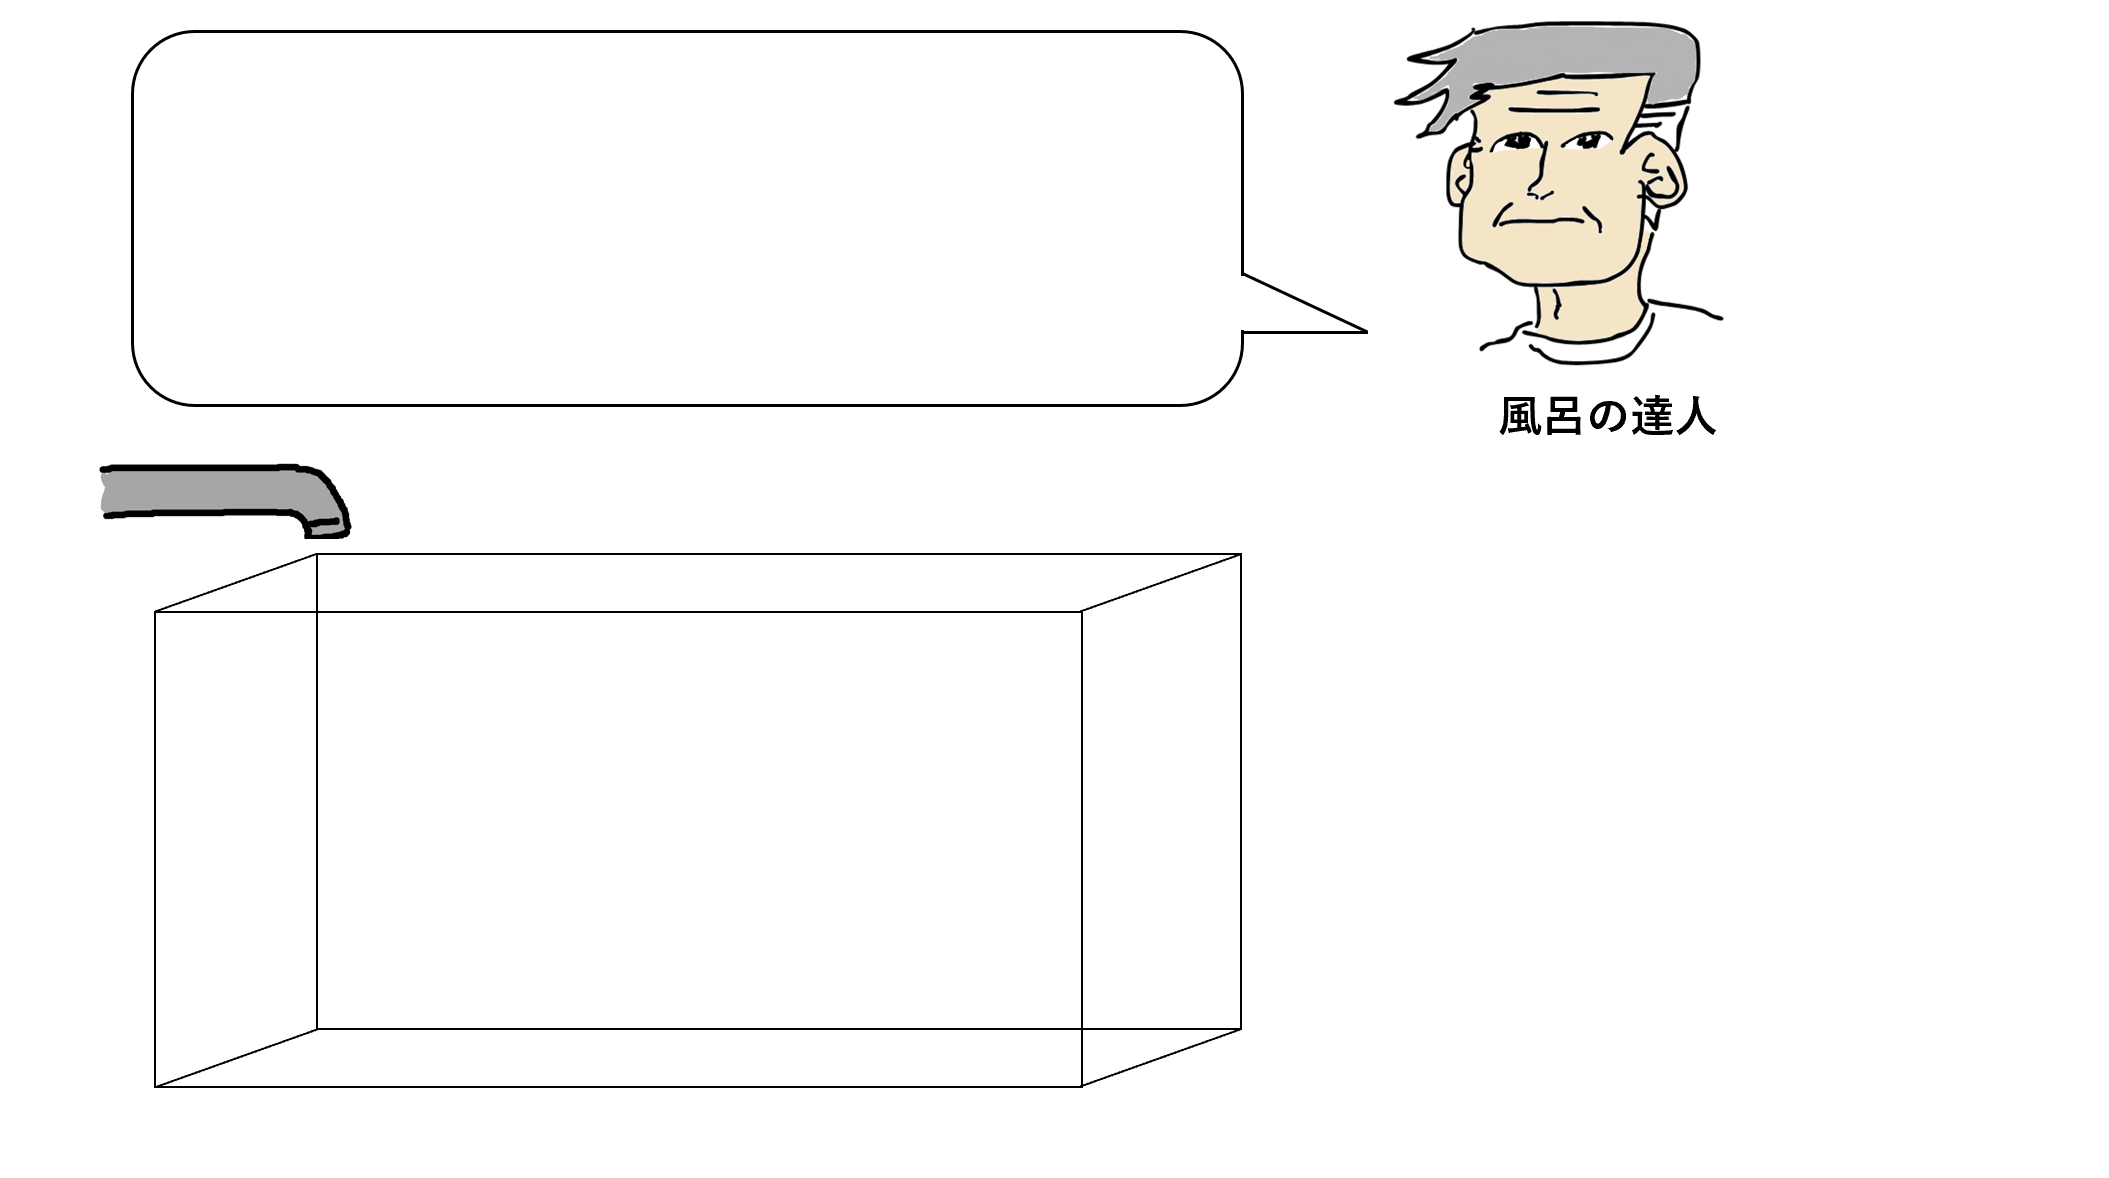
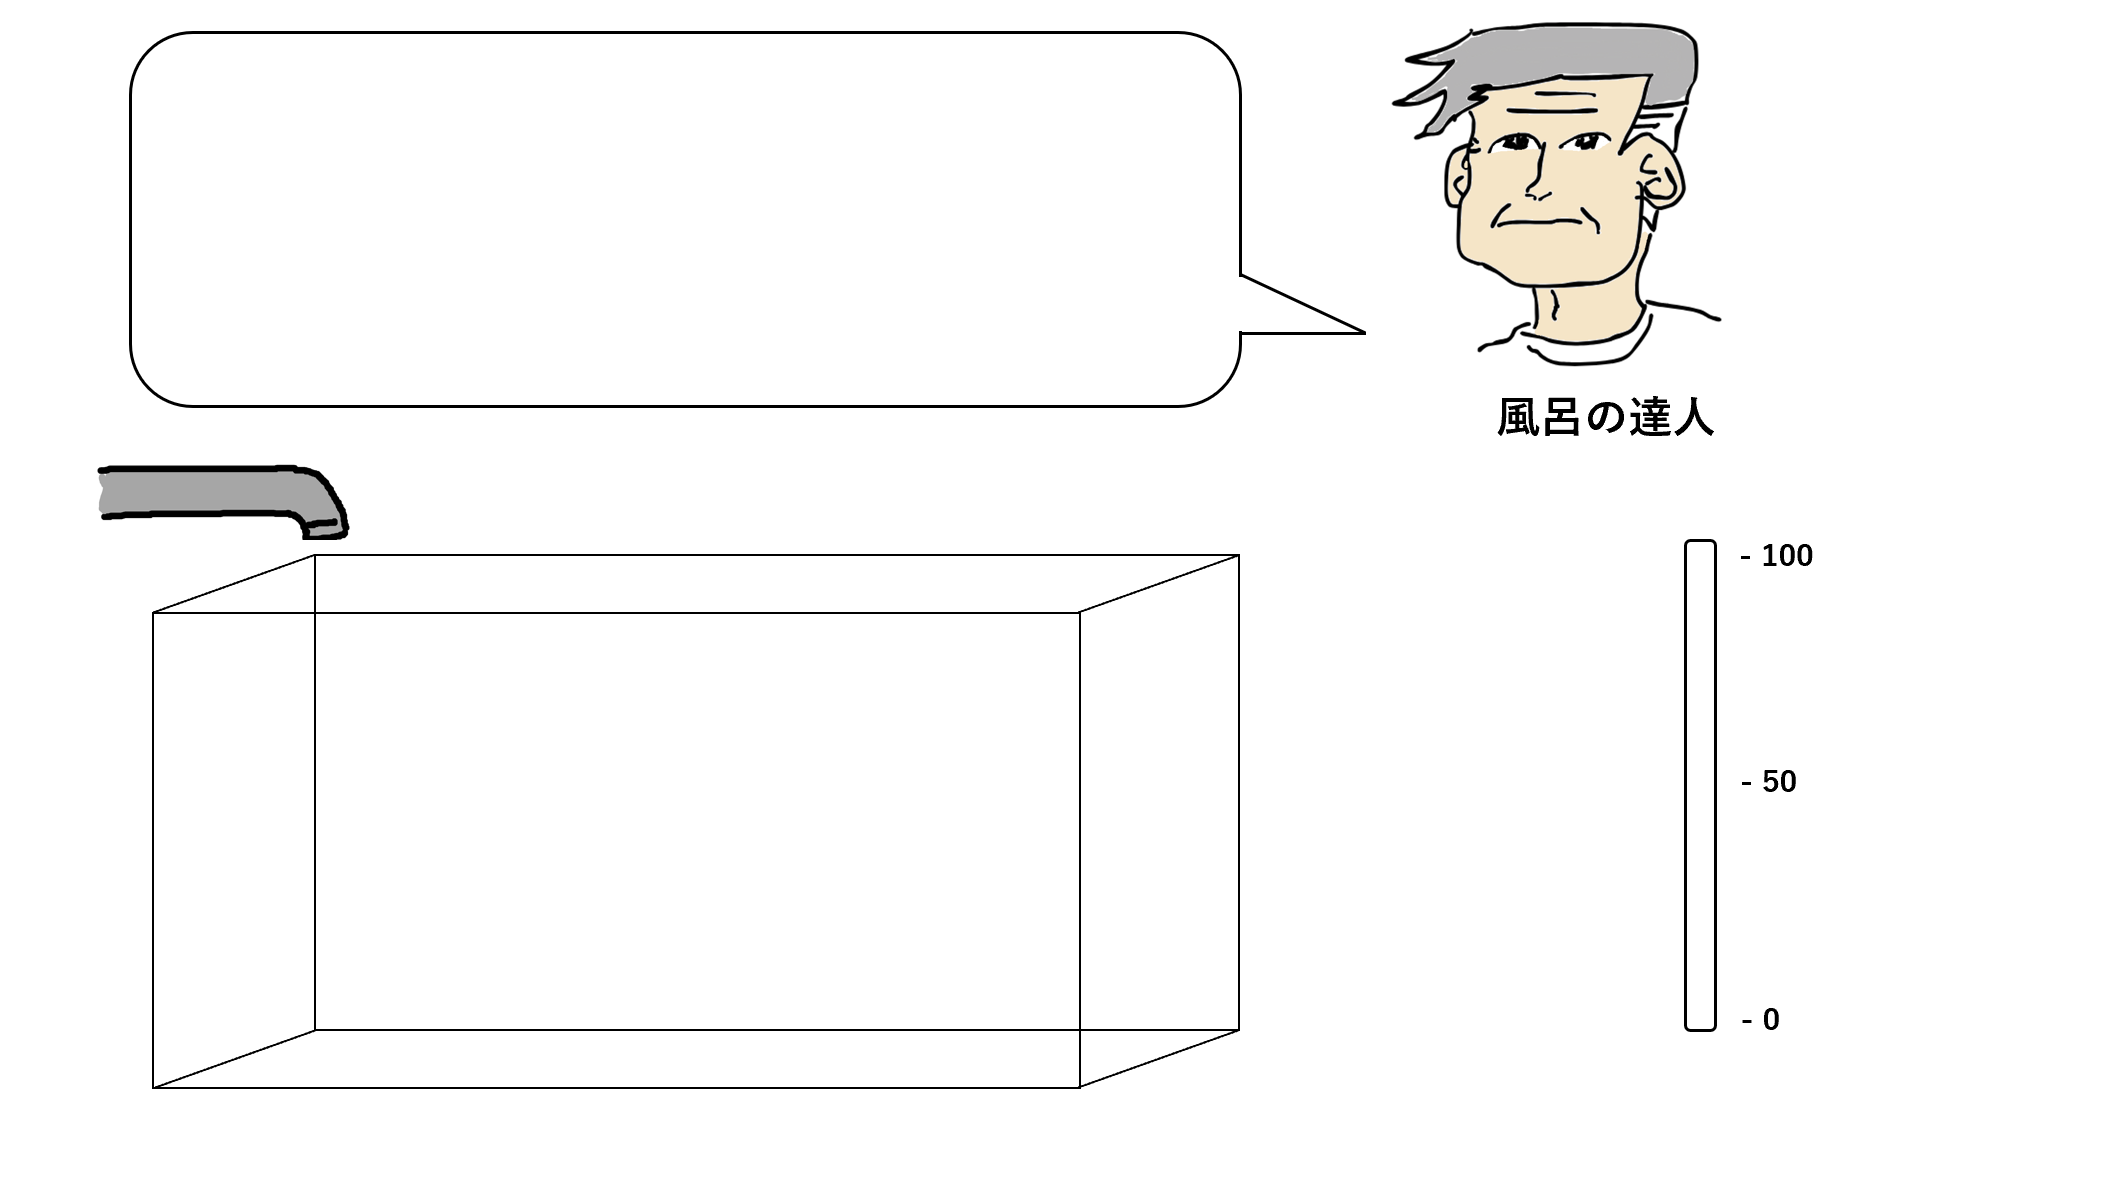
update

diff --git a/game-screen.js b/game-screen.js
@@ -2,6 +2,7 @@ const GameScreen = {
   data() {
     return {
       temperature: 37,
+      babbleText: "さあ、お湯を入れてくれ。"
     };
   },
   methods: {
@@ -19,14 +20,14 @@ const GameScreen = {
           <img
            src="image/game-backgroud.png"
            witdth="800" height="650">
-          <div style="
-            width:400px;
-            height:200px;
-          "
-          class="block speech-bubble_container">
-            <img src="your-image.jpg" alt="画像" class="image">
-            <div class="text">ここに文字を配置</div>
-          吹き出し</div>
+          <div class="text"
+           style="
+           position:absolute;
+           top:200px;
+           left:250px;
+           width:200px;
+           text-align: start;
+           ">{{ babbleText }}</div>
           <div id="thermometer">🌡 温度: {{ temperature }}°C</div>
           <button @click="touchTap">蛇口を触る</button>
         </div>
